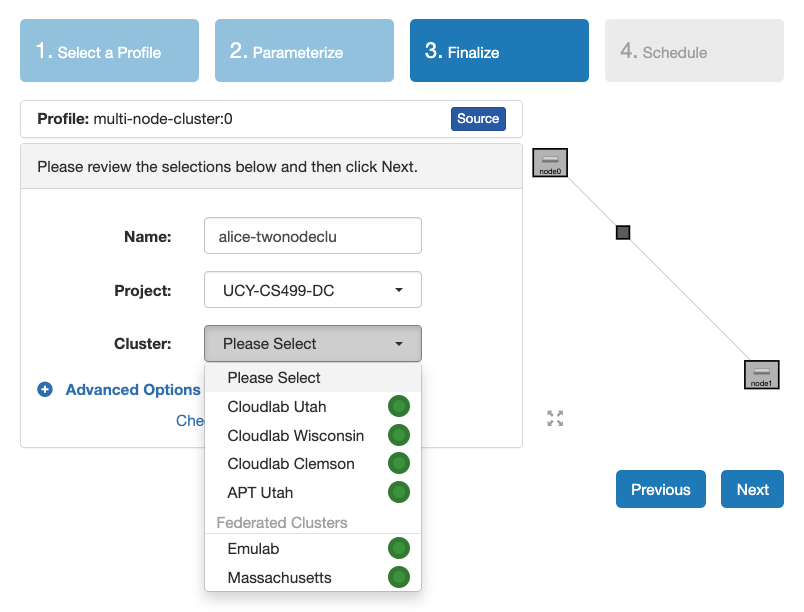
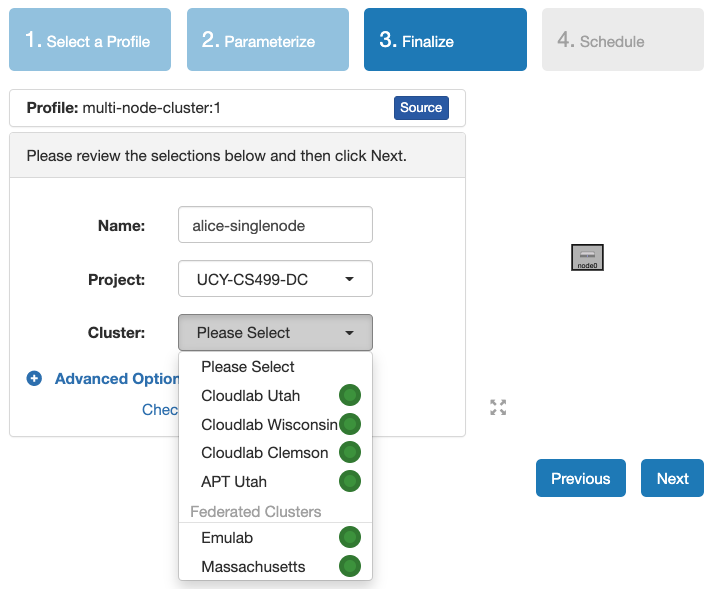
move ansible from lab1 to lab2

diff --git a/labs/01-cloudlab/README.md b/labs/01-cloudlab/README.md
@@ -111,7 +111,7 @@ To start a new experiment:
 
    Some profiles are simple and provide the same topology every time they are instantiated. But others, like the `multi-node-cluster` profile, are parameterized and allow users to make choices about how they are instantiated. The `multi-node-cluster` profile allows you to pick the number of compute nodes, the hardware to use, and many more options. The creator of the profile chooses which options to allow and provides information on what those options mean. Just mouse over a blue ’?’ to see a description of an option. 
   
-   For this lab, we will create a two-node cluster. Change **Number of Nodes** to 2 and click **Next** to continue.
+   For this lab, we will create a single-node experiment. Leave **Number of Nodes** to 1 and click **Next** to continue.
 
 <figure>
   <p align="center"><img src="figures/cloudlab-multi-node-cluster-parameterize.png" width="60%"></p>
@@ -226,177 +226,6 @@ If you need to elevate your privileges on the far side of the SSH connection wit
 
 ```
 $ ssh -t alice@amd198.utah.cloudlab.us "sudo apt -y install nano"
-```
-
-### Run a command over SSH on multiple machines 
-
-For cluster sizes larger than 2, `parallel-ssh` and `ansible` are very useful tools for running the same commands on multiple machines.
-
-Getting started with these tools is simple. 
-1. Choose a machine as your management system and install the tool. Your management node can also be a managed node.
-2. Ensure you have passwordless ssh access from your management system to each managed node.
-3. Create a hosts file containing an inventory of your nodes.
-4. Start using the tool 
-
-We suggest the following:
-- For step 1, you use `node0` as the management system.
-- For step 2, you use a CloudLab profile that automatically sets up ssh keys for passwordless access. All the CloudLab profiles under `UCY-CS499-DC` meet this requirement.
-
-#### Using `parallel-ssh`
-
-[`parallel-ssh`](https://manpages.org/parallel-ssh) is a program for executing ssh in parallel on a number of hosts. 
-
-On Debian based distributions, you can install `parallel-ssh` using `apt`:
-
-```
-$ sudo apt -y install pssh
-```
-
-To use `parallel-ssh`, you need to create a text file called hosts file that contains a list of all the hosts that you want to have the command executed on:
-
-```
-node0
-node1
-```
-
-Once you have a hosts file, you can run `parallel-ssh` for all the hosts from this file to execute a command. You can use the `-i` option to display standard output and standard error as each host completes. 
-
-For example, you can run `date` on each host:
-
-```
-$ parallel-ssh -i -h pssh_hosts date
-```
-
-Sample output:
-
-```
-[1] 06:48:49 [SUCCESS] node0
-Wed Jul  6 06:48:49 CDT 2022
-[2] 06:48:49 [SUCCESS] node1
-Wed Jul  6 06:48:49 CDT 2022
-```
-
-As another example, you can run `apt` to install `nano` on each host:
-
-```
-$ parallel-ssh -i -h pssh_hosts -- sudo apt -y install nano
-```
-
-#### Using `ansible`
-
-[Ansible](https://www.ansible.com/) is a modern configuration management tool that facilitates the task of setting up and maintaining remote servers. [Configuration management](https://en.wikipedia.org/wiki/Configuration_management) is an automated method for maintaining computer systems and software in a known, consistent state. 
-
-<figure>
-  <p align="center"><img src="figures/ansible-architecture.png" width="60%"></p>
-  <figcaption><p align="center">Figure. Ansible Architecture</p></figcaption>
-</figure>
-
-On Debian based distributions, you can install `ansible` using `apt`:
-
-```
-$ sudo apt -y install ansible
-```
-
-Similarly to `parallel-ssh`, Ansible uses an inventory file, called hosts to determine which nodes you want to manage. This is a plain-text file which lists individual nodes or groups of nodes (e.g. Web servers, Database servers, etc.). 
-The default location for the inventory file is /etc/ansible/hosts, but it’s possible to create inventory files in any location that better suits your needs. In this case, you’ll need to provide the path to your custom inventory file with the `-i` parameter when running Ansible commands. Using per-project inventory files is a good practice to minimize the risk of running a command on the wrong group of servers. A simple hosts file you can start off with looks like this:
-
-```
-[webservers]
-node0
-node1
-```
-
-This defines a group of nodes we call `webservers` with two specified hosts in it.
-
-We can now immediately launch Ansible to see if our setup works:
-
-```
-$ ansible webservers -i ./hosts -m ping
-node0 | SUCCESS => {
-    "changed": false, 
-    "ping": "pong"
-node1 | SUCCESS => {
-    "changed": false, 
-    "ping": "pong"
-}
-```
-
-Ansible connects to each individual node in the group of webservers, transmits the required module (here: `ping`), launches the module, and returns the module’s output. Instead of addressing a group of nodes, we can also specify an individual node or a set of nodes with wildcards.
-
-Modules use the available context to determine what actions if any needed to bring the managed host to the desired state and are [idempotent](https://en.wikipedia.org/wiki/Idempotence#Computer_science_meaning), that means if you run the same task again and again, the state of the machine will not change. To find the list of available modules, use `ansible-doc -l`
-
-Instead of shooting off individual ansible commands, we can group these together into so-called playbooks which declare a specific configuration we want to apply to a node. Tasks specified are processed in the order we specify. A playbook is expressed in YAML:
-
-```
----
-- name: Configure webserver with nginx
-  hosts: webservers
-  vars:
-    web_root: "{{ ansible_env.HOME }}/static-site"
-  tasks:
-    - name: install nginx
-      apt: 
-        name: nginx 
-        update_cache: yes
-      become: yes
-    
-    - name: copy the nginx config file
-      template:
-        src: static_site.cfg.j2
-        dest: /etc/nginx/sites-available/static_site.cfg
-      become: yes
-    
-    - name: create symlink
-      file:
-        src: /etc/nginx/sites-available/static_site.cfg
-        dest: /etc/nginx/sites-enabled/default
-        state: link
-      become: yes
-
-    - name: ensure {{ web_root }} dir exists
-      file:
-        path: "{{ web_root }}"
-        state: directory
-
-    - name: copy index.html
-      copy: 
-        src: index.html
-        dest: "{{ web_root }}/index.html"
-
-    - name: restart nginx
-      service: 
-        name: nginx 
-        state: restarted
-      become: yes
-```
-
-The format is very readable. 
-With `hosts`, we choose specific hosts and/or groups in our inventory to execute against. 
-With `vars`, we define variables we want to pass to tasks. These variables can be used within the playbook and within templates as `{{ var }}`. 
-With `tasks`, we define the list of tasks we want to execute. Each task hask a name which helps us track playbook progress and a module we want Ansible to invoke.
-Finally, for tasks that require root privileges such as installing packages, we use `become` to ask Ansible to activate privilege escalation and run corresponding tasks as `root` user. 
-
-The playbook uses several types of modules, many of which are self explanatory. The template module construct a file’s content using variables. Ansible uses the [Jinja2](http://jinja.pocoo.org/docs/) templating language.
-
-The `ansible-playbook` utility processes the playbook and instructs the nodes to perform the tasks, starting with an implicit invocation of the setup module, which collects system information for Ansible. Tasks are performed top-down and an error causes Ansible to stop processing tasks for that particular node.
-
-```
-$ ansible-playbook -i ./hosts.ini nginx.yml
-```
-
-Once the playbook is finished, if you go to your browser and access `node0` or `node1`'s public hostname or IP address you should see the following page:
-
-```
-nginx, configured by Ansible
-If you can see this, Ansible successfully installed nginx.
-```
-
-**Exercise**: Extend the nginx setup to display the node that the nginx service is running on. For example, when visiting `node1` you should get the following page: 
-
-```
-nginx, configured by Ansible
-If you can see this, Ansible successfully installed nginx.
-Running on node1.
 ```
 
 ## Terminate your experiment 
